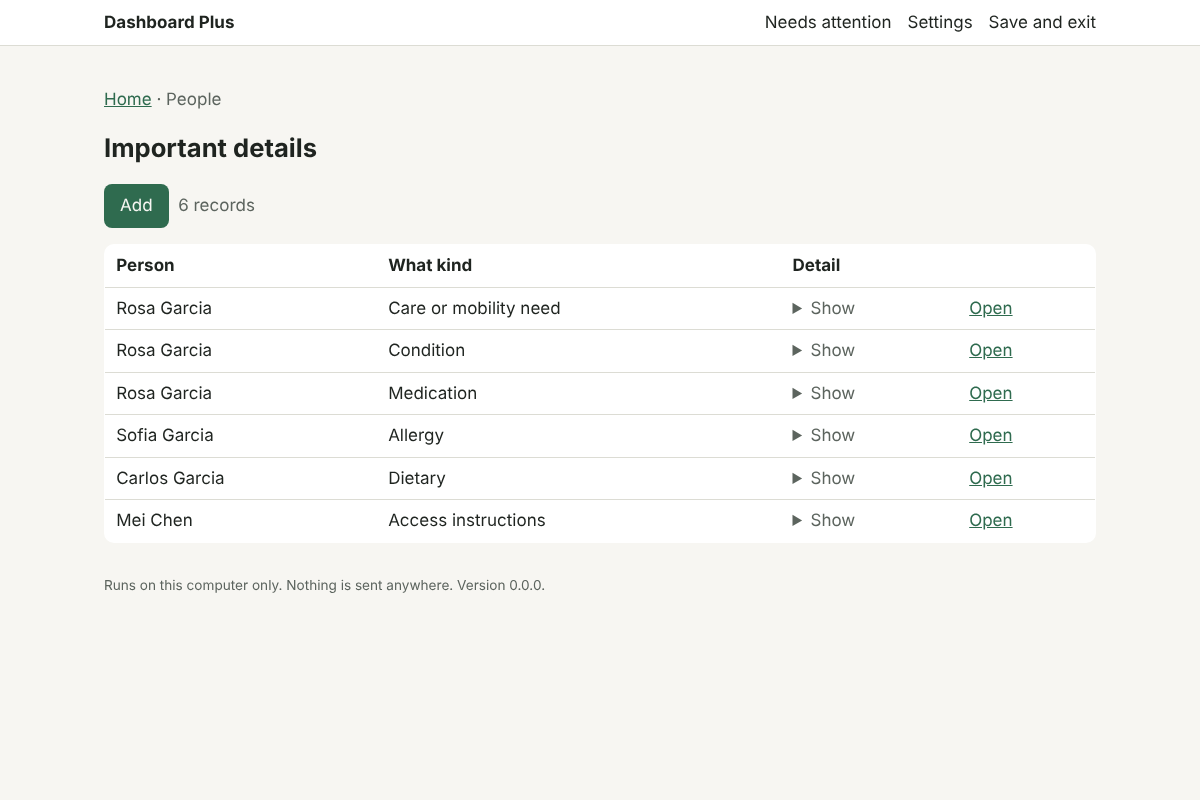
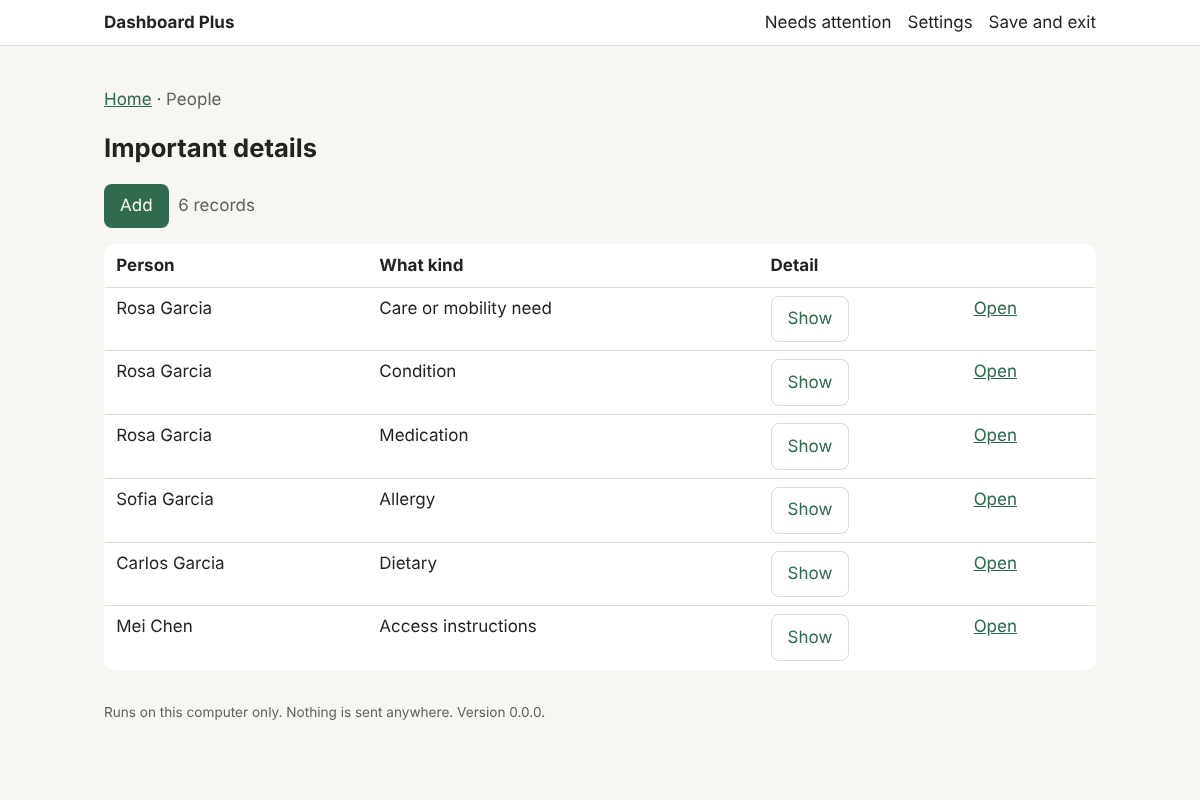
Private details are sent to the screen only when asked
Lists show a Show button instead of writing the private value into the
page; a record's page starts with "Show private detail" and keeps an
unopened detail unchanged on save; sheets with private details ask first.
Lists can't be sorted by a private column. From Lane B's audit (decision 0059).

Claude-Session: https://claude.ai/code/session_01NY4YczT1cyZFgfHagCWCs7

diff --git a/src/dashboard/web/templates/form.html b/src/dashboard/web/templates/form.html
@@ -41,8 +41,15 @@
       <label><input type="checkbox" id="{{ fid }}" name="{{ f.name }}" value="yes"{{ aria }} {% if f.value in (1, "1", "yes", True) %}checked{% endif %}> {{ f.label }}</label>
     {% else %}
       <label for="{{ fid }}">{{ f.label }}{% if f.column.required %} <span class="required" title="required">*</span>{% endif %}{% if f.column.unit %} <span class="muted">({{ f.column.unit }})</span>{% endif %}</label>
+      {% if f.kept_private %}
+        <div class="private-closed" id="{{ fid }}-closed">
+          <p class="help" style="margin-top:0">Private detail saved. Show to read or change it.</p>
+          <input type="hidden" name="_keep_private" value="{{ f.name }}" id="{{ fid }}-keep">
+          <button type="button" class="quiet" data-reveal-field="/t/{{ info.name }}/{{ record.id }}/reveal?column={{ f.name }}" data-field="{{ fid }}">Show private detail</button>
+        </div>
+      {% endif %}
       {% if f.kind == "longtext" %}
-        <textarea id="{{ fid }}" name="{{ f.name }}"{{ aria }}>{{ f.value or "" }}</textarea>
+        <textarea id="{{ fid }}" name="{{ f.name }}"{{ aria }}{% if f.kept_private %} hidden{% endif %}>{{ f.value or "" }}</textarea>
       {% elif f.kind in ("choice", "link") %}
         {% if f.kind == "link" and (f.options | length > 8 or f.search) %}
         <input type="search" class="find" data-find-for="{{ fid }}" data-add-new="{{ f.add_new or '' }}" data-search="{{ f.search or '' }}" placeholder="Type to find…" aria-label="Find {{ f.label | lower }}" autocomplete="off">
@@ -66,12 +73,12 @@
       {% elif f.kind in ("integer", "decimal", "measure", "money") %}
         <input type="text" inputmode="decimal" id="{{ fid }}" name="{{ f.name }}"{{ aria }} value="{{ f.value if f.value is not none else '' }}">
       {% else %}
-        <div class="suggest-box"><input type="text" id="{{ fid }}" name="{{ f.name }}" value="{{ f.value or '' }}"{{ aria }} {% if loop.first and not errors %}autofocus{% endif %}{% if f.suggest %} data-suggest="/t/{{ info.name }}/suggest?column={{ f.name }}" autocomplete="off" role="combobox" aria-autocomplete="list" aria-expanded="false" aria-controls="{{ fid }}-list"{% endif %}></div>
+        <div class="suggest-box"{% if f.kept_private %} hidden id="{{ fid }}-box"{% endif %}><input type="text" id="{{ fid }}" name="{{ f.name }}" value="{{ f.value or '' }}"{{ aria }} {% if loop.first and not errors and not f.kept_private %}autofocus{% endif %}{% if f.suggest %} data-suggest="/t/{{ info.name }}/suggest?column={{ f.name }}" autocomplete="off" role="combobox" aria-autocomplete="list" aria-expanded="false" aria-controls="{{ fid }}-list"{% endif %}></div>
       {% endif %}
     {% endif %}
     {% if f.error %}<p class="error" id="{{ fid }}-error">{% if f.error[:1].isupper() %}{{ f.error }}{% else %}{{ f.label }} {{ f.error }}{% endif %}</p>{% endif %}
     {% if f.help %}<p class="help" id="{{ fid }}-help">{{ f.help }}</p>{% endif %}
-    {% if f.column.sensitive %}<p class="help">Private: hidden in lists until you choose to show it.</p>{% endif %}
+    {% if f.column.sensitive %}<p class="help">Private: not shown in lists, or when this page opens, until you choose to show it.</p>{% endif %}
   </div>
   {% endfor %}
   <div class="actions">

diff --git a/src/dashboard/web/templates/base.html b/src/dashboard/web/templates/base.html
@@ -75,5 +75,27 @@
     {% block body %}{% endblock %}
   </main>
   <footer>Runs on this computer only. Nothing is sent anywhere. Version {{ version }}.</footer>
+<script>
+  // Private details are never in the page; "Show" fetches just the one asked for (privacy audit, decision 0059).
+  document.addEventListener("click", function (event) {
+    var button = event.target.closest("[data-reveal], [data-reveal-field]");
+    if (!button) return;
+    var url = button.dataset.reveal || button.dataset.revealField;
+    fetch(url, {credentials: "same-origin"}).then(function (r) { return r.ok ? r.json() : null; }).then(function (found) {
+      if (!found) return;
+      if (button.dataset.reveal) {
+        var span = document.createElement("span"); span.textContent = found.text;
+        button.replaceWith(span);
+        return;
+      }
+      var id = button.dataset.field, field = document.getElementById(id);
+      field.value = found.value; field.hidden = false;
+      var box = document.getElementById(id + "-box"); if (box) box.hidden = false;
+      var keep = document.getElementById(id + "-keep"); if (keep) keep.remove();
+      document.getElementById(id + "-closed").remove();
+      field.focus();
+    });
+  });
+</script>
 </body>
 </html>

diff --git a/src/dashboard/web/templates/rows.html b/src/dashboard/web/templates/rows.html
@@ -1,7 +1,7 @@
 {% for r in rows %}
 <tr>
   {% for cell in r.cells %}
-  <td>{% if cell.sensitive and cell.text %}<details class="secret"><summary aria-label="Show {{ cell.label | lower }}">Show</summary>{{ cell.text }}</details>{% else %}{{ cell.text }}{% endif %}</td>
+  <td>{% if cell.sensitive %}{% if cell.saved %}<button type="button" class="quiet secret" data-reveal="/t/{{ info.name }}/{{ r.id }}/reveal?column={{ cell.column }}" aria-label="Show {{ cell.label | lower }} for {{ r.label }}">Show</button>{% endif %}{% else %}{{ cell.text }}{% endif %}</td>
   {% endfor %}
   <td><a href="/t/{{ info.name }}/{{ r.id }}" aria-label="Open {{ r.label }}">Open</a>{% if r.review == "needs_review" %} <span class="muted">(needs review)</span>{% endif %}</td>
 </tr>

diff --git a/src/dashboard/web/templates/private_sheet.html b/src/dashboard/web/templates/private_sheet.html
@@ -1,0 +1,13 @@
+{% extends "base.html" %}
+{% block title %}{{ sheet.title }} · Dashboard Plus{% endblock %}
+{% block body %}
+<p class="muted"><a href="/">Home</a></p>
+<h1>{{ sheet.title }}</h1>
+<div class="card">
+  <p>This sheet includes private health and care details. Show it only when you mean to print or share it.</p>
+  <div class="actions">
+    <a class="button" href="/sheet/{{ module }}/{{ name }}?show=1">Show private sheet</a>
+    <a class="button quiet" href="/">Back to Home</a>
+  </div>
+</div>
+{% endblock %}

diff --git a/src/dashboard/web/pages.py b/src/dashboard/web/pages.py
@@ -23,7 +23,8 @@ def _info(table: str) -> records.TableInfo:
 
 def _sorting(info: records.TableInfo) -> tuple[str, bool]:
     sort = request.args.get("sort", "id")
-    allowed = {"id"} | {c.name for c in display.list_columns(info)}
+    # Never sort by a private column: the order alone could give its values away.
+    allowed = {"id"} | {c.name for c in display.list_columns(info) if not c.sensitive}
     return (sort if sort in allowed else "id"), request.args.get("desc") == "1"
 
 
@@ -51,7 +52,11 @@ def _rows(store, info, offset, sort, desc):
         for c in columns:
             text = paths[r["id"]] if paths and name_col is not None and c.name == name_col.name \
                 else formatter.text(info, c, r.get(c.name))
-            cells.append({"text": text, "sensitive": c.sensitive, "label": display.column_label(info, c)})
+            if c.sensitive:  # the private value is never in the page; "Show" fetches it (privacy audit)
+                cells.append({"text": "", "sensitive": True, "saved": bool(text), "column": c.name,
+                              "label": display.column_label(info, c)})
+                continue
+            cells.append({"text": text, "sensitive": False, "label": display.column_label(info, c)})
         out.append({"id": r["id"], "review": r["review_status"], "label": label, "cells": cells})
     return out
 
@@ -185,6 +190,22 @@ def _form_values(info, store, creating: bool) -> dict:
             problems = {**error.problems, **date_problems}
         raise records.ValidationError(problems)
     return values
+
+
+@pages.get("/t/<table>/<int:record_id>/reveal")
+def reveal_private(table, record_id):
+    """One private detail, fetched only when the person chooses Show (privacy audit, decision 0059)."""
+    info, store = _info(table), _store()
+    column = info.table.columns.get(request.args.get("column", ""))
+    if column is None or not column.sensitive:
+        abort(404)
+    try:
+        record = store.get(table, record_id)
+    except records.RecordNotFound:
+        abort(404)
+    value = record.get(column.name)
+    return jsonify({"text": display.Formatter(store).text(info, column, value),
+                    "value": "" if value is None else str(display.input_value(column, value))})
 
 
 @pages.get("/t/<table>/new")

diff --git a/tests/test_web.py b/tests/test_web.py
@@ -103,7 +103,15 @@ class WebTests(TempDirTestCase):
         grid = self.get("/t/demo__items").get_data(as_text=True)
         for text in ("Bandages", "First aid", "Garage shelf", "12 each", "How many"):
             self.assertIn(text, grid)
-        self.assertIn('<summary aria-label="Show secret">Show</summary>hidden note', grid)
+        # Privacy audit: a private value is never in the list page; "Show" fetches just that one.
+        self.assertNotIn("hidden note", grid)
+        self.assertIn('aria-label="Show secret for Bandages"', grid)
+        record = re.search(r'/t/demo__items/(\d+)/reveal\?column=secret', grid).group(1)
+        self.assertEqual(self.get(f"/t/demo__items/{record}/reveal?column=secret").get_json()["text"], "hidden note")
+        self.assertEqual(self.get(f"/t/demo__items/{record}/reveal?column=name").status_code, 404)  # private only
+        page = self.get(f"/t/demo__items/{record}").get_data(as_text=True)
+        self.assertNotIn("hidden note", page)  # opening the record doesn't show it either
+        self.assertIn("Show private detail", page)
 
     def test_edit_records_history_and_delete_restore(self):
         self.sign_in()
@@ -163,3 +171,14 @@ class WebTests(TempDirTestCase):
         reports = list((self.tmp / "data" / "reports").glob("report-*.txt"))
         self.assertEqual(len(reports), 1)
         self.assertNotIn("Private place name", reports[0].read_text(encoding="utf-8"))
+
+
+class PrivateFieldKeptTests(WebTests):
+    """Saving a record without opening its private detail leaves that detail exactly as it was."""
+
+    def test_saving_other_fields_keeps_an_unopened_private_detail(self):
+        self.sign_in()
+        self.post("/t/demo__items/new", {"name": "Gloves", "kind": "first_aid", "secret": "keep me"})
+        record = re.search(r"/t/demo__items/(\d+)", self.get("/t/demo__items").get_data(as_text=True)).group(1)
+        self.post(f"/t/demo__items/{record}", {"name": "Gloves (box)", "kind": "first_aid", "_keep_private": "secret"})
+        self.assertEqual(self.get(f"/t/demo__items/{record}/reveal?column=secret").get_json()["value"], "keep me")

diff --git a/src/dashboard/web/display.py b/src/dashboard/web/display.py
@@ -193,6 +193,8 @@ class Field:
     blank_words: dict | None = None  # with `blank_follows`: the blank words for each of its choices
     only_when_blank: str | None = None  # shown only while this link field (Which batch) is left blank
 
+    kept_private: bool = False  # a saved private value, not sent until the person chooses Show
+
     @property
     def name(self) -> str:
         return self.column.name
@@ -339,6 +341,8 @@ def build_fields(records: Records, info: TableInfo, values: dict, errors: dict, 
             field.blank = words[1].get(values.get(words[0])) or "(none)"
         if batch_field and column.name in rule["new_batch"].values() and column.name != batch_field:
             field.only_when_blank = batch_field  # a use-by date and place typed here are for a new batch only
+        if column.sensitive and not from_form and field.value not in (None, ""):
+            field.kept_private, field.value = True, ""  # sent only when the person chooses Show
         fields.append(field)
     return fields
 
@@ -348,7 +352,10 @@ def values_from_form(info: TableInfo, form, date_style: str = dates.DAY_FIRST, h
 
     Dates are typed the household's way (20/05/27) and handed on as 2027-05-20."""
     values, problems = {}, {}
+    kept = set(form.getlist("_keep_private")) if hasattr(form, "getlist") else set()
     for column in form_columns(info, hide):
+        if column.name in kept and column.sensitive:
+            continue  # a private detail the person didn't open stays exactly as saved
         if column.type == "date" and form.get(column.name, "").strip():
             try:
                 values[column.name] = dates.parse(form.get(column.name), date_style)

diff --git a/src/dashboard/web/sheets.py b/src/dashboard/web/sheets.py
@@ -3,7 +3,7 @@ from __future__ import annotations
 
 from datetime import date
 
-from flask import Blueprint, abort, current_app, render_template
+from flask import Blueprint, abort, current_app, render_template, request
 
 from dashboard.core import records
 from dashboard.core.schema import table_name
@@ -87,5 +87,8 @@ def show_sheet(module, name):
 
         sections.append({"title": section["title"], "headings": [c[0] for c in columns],
                          "rows": [[value(dict(r), c) for c in columns] for r in rows]})
+    if private and request.args.get("show") != "1":
+        # A sheet with private details opens only by choice, so a mistaken click shows none of them.
+        return render_template("private_sheet.html", sheet=sheet, module=module, name=name)
     return render_template("sheet.html", sheet=sheet, sections=sections, private=private,
                            printed=date.today().strftime("%d %B %Y"))

diff --git a/tests/test_module_vehicles.py b/tests/test_module_vehicles.py
@@ -132,7 +132,10 @@ class VehiclesModuleTests(TempDirTestCase):
             self.assertIn(shown, sheet)
         for private in ("Papers are in the desk", "Excess is high"):
             self.assertNotIn(private, sheet)
-        self.assertIn(PLATE, client.get(f"/t/vehicles__vehicles/{car}", base_url=BASE).get_data(as_text=True))
+        page = client.get(f"/t/vehicles__vehicles/{car}", base_url=BASE).get_data(as_text=True)
+        self.assertNotIn(PLATE, page)  # even its own page shows the plate only when asked (privacy audit)
+        shown = client.get(f"/t/vehicles__vehicles/{car}/reveal?column=registration", base_url=BASE).get_json()
+        self.assertEqual(shown["value"], PLATE)
 
     def test_sheet_shows_who_to_call_the_full_place_and_the_kit(self):
         garage = self.records.create("stock__places", {"name": "Garage"})

diff --git a/tests/test_module_people.py b/tests/test_module_people.py
@@ -68,7 +68,10 @@ class PeopleModuleTests(TempDirTestCase):
         self.assertIn("Key holder", plain)
         self.assertIn("555 0199", plain)
         self.assertNotIn("Synthetic allergy note", plain)
-        medical = client.get("/sheet/people/emergency_medical", base_url=BASE).get_data(as_text=True)
+        first = client.get("/sheet/people/emergency_medical", base_url=BASE).get_data(as_text=True)
+        self.assertNotIn("Synthetic allergy note", first)  # privacy audit: shown only by choice
+        self.assertIn("Show it only when you mean to print or share it", first)
+        medical = client.get("/sheet/people/emergency_medical?show=1", base_url=BASE).get_data(as_text=True)
         self.assertIn("Synthetic allergy note", medical)
         self.assertIn("includes private details", medical)
 

diff --git a/tools/make_screenshots.py b/tools/make_screenshots.py
@@ -50,7 +50,7 @@ STAGES = [
     ("09-emergency-sheet", "Emergency sheet (fridge copy)", "As it prints: who lives here and who to call.",
      {"goto": "/sheet/people/emergency", "media": "print"}),
     ("10-emergency-sheet-medical", "Emergency sheet with private medical details", "As it prints, for "
-     "responders and carers.", {"goto": "/sheet/people/emergency_medical", "media": "print"}),
+     "responders and carers.", {"goto": "/sheet/people/emergency_medical?show=1", "media": "print"}),
     ("11-places", "Places", "Where things are kept.", {"goto": "/t/stock__places"}),
     ("12-stock", "Stock items", "What the household has, how much, and how much to keep.",
      {"goto": "/t/stock__items"}),

diff --git a/tests/test_sheets.py b/tests/test_sheets.py
@@ -117,7 +117,7 @@ class SheetPageTests(TempDirTestCase):
     def test_sheet_with_private_column_says_so(self):
         self.app.config["LOADED"][0].sheets[0]["sections"].append(
             {"title": "Medical", "table": "important_info", "where": {}, "columns": ["detail"], "order_by": "id"})
-        self.assertIn("includes private details", self.get("/sheet/people/emergency").get_data(as_text=True))
+        self.assertIn("includes private details", self.get("/sheet/people/emergency?show=1").get_data(as_text=True))
 
     def test_unknown_or_switched_off_sheet_is_not_found(self):
         self.assertEqual(self.get("/sheet/people/nothing").status_code, 404)
